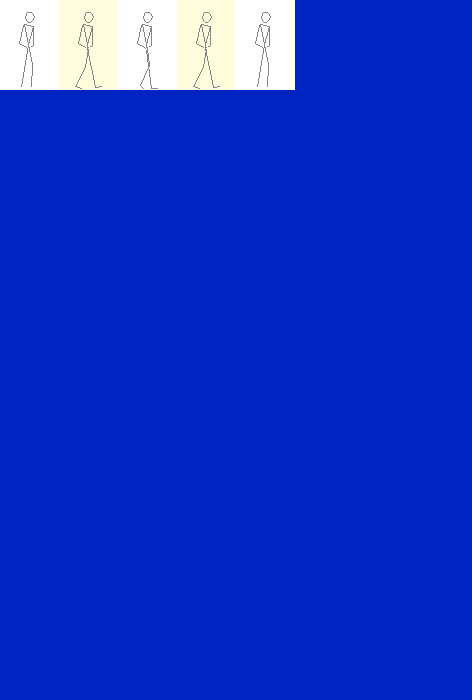
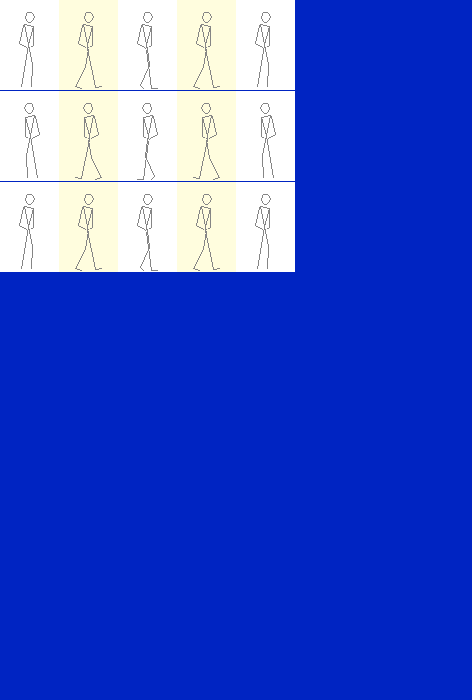
new walk animations and fix directions

Changed region(s): [[0.0, 0.12, 0.6229, 0.39]]

diff --git a/src/fighter/Fighter.js b/src/fighter/Fighter.js
@@ -1,5 +1,5 @@
 import { backwardPress, forwardPress, upPress, } from "../Control.js";
-import { FighterState } from "../constants/fighter.js"
+import { FighterDirection, FighterState } from "../constants/fighter.js"
 import { GRAVITY, STAGE } from "../constants/game.js"
 
 export class Character {
@@ -9,14 +9,14 @@ export class Character {
         this.x = x
         this.y = y
         this.velocity = {x: 0, y: 0}
-        this.direction = 1
+        this.direction = FighterDirection.RIGHT
 
         this.sprites = new Image()
         this.spriteFrames = {}
         this.animations = {}
         this.animationFrameIndex = 0
         this.framesElapsed = 0
-        this.framesHold = 5
+        this.framesHold = 10
 
         this.states = {
             [FighterState.IDLE]: {
@@ -27,36 +27,36 @@ export class Character {
                     if (upPress(this.playerNumber) || this.y < STAGE.FLOOR_Y) {
                         this.changeState(FighterState.JUMP)
                     }
-                    if (backwardPress(this.playerNumber, this.direction)) {
+                    else if (backwardPress(this.playerNumber, this.direction)) {
                         this.changeState(FighterState.WALK_BACKWARD)
                     }
-                    if (forwardPress(this.playerNumber, this.direction)) {
+                    else if (forwardPress(this.playerNumber, this.direction)) {
                         this.changeState(FighterState.WALK_FORWARD)
                     }
                 }
             },
             [FighterState.WALK_FORWARD]: {
                 enterState: () => {
-                    this.velocity.x = 2
+                    this.velocity.x = this.correctVelocityDirection(2)
                 },
                 updateState: () => {
                     if (upPress(this.playerNumber) || this.y < STAGE.FLOOR_Y) {
                         this.changeState(FighterState.JUMP)
                     }
-                    if (!forwardPress(this.playerNumber, this.direction)) {
+                    else if (!forwardPress(this.playerNumber, this.direction)) {
                         this.changeState(FighterState.IDLE)
                     }
                 }
             },
             [FighterState.WALK_BACKWARD]: {
                 enterState: () => {
-                    this.velocity.x = -2
+                    this.velocity.x = this.correctVelocityDirection(-2)
                 },
                 updateState: () => {
                     if (upPress(this.playerNumber) || this.y < STAGE.FLOOR_Y) {
                         this.changeState(FighterState.JUMP)
                     }
-                    if (!backwardPress(this.playerNumber, this.direction)) {
+                    else if (!backwardPress(this.playerNumber, this.direction)) {
                         this.changeState(FighterState.IDLE)
                     }
                 }
@@ -64,7 +64,7 @@ export class Character {
             [FighterState.JUMP]: {
                 enterState: () => {
                     this.y -= 1
-                    this.velocity.y = -12
+                    this.velocity.y = -13
                 },
                 updateState: () => {
                     if (this.y >= STAGE.FLOOR_Y) {
@@ -84,26 +84,36 @@ export class Character {
         this.states[this.currentState].enterState()
     }
 
-    update(otherPlayer) {
-        console.log(this.name, this.direction)
-        this.states[this.currentState].updateState()
+    correctVelocityDirection(velocity){
+        if (this.direction == FighterDirection.RIGHT) {
+            return velocity
+        } else {
+            return -velocity
+        }
+    }
 
-        if (this.currentState != FighterState.JUMP) {
+    updateDirection(otherPlayer) {
+        if (this.currentState != FighterState.JUMP && otherPlayer.currentState != FighterState.JUMP) {
             if (this.x < otherPlayer.x) {
-                this.direction = 1
+                this.direction = FighterDirection.RIGHT
             } else {
-                this.direction = -1
+                this.direction = FighterDirection.LEFT
             }
         }
+    }
 
-        this.x += this.velocity.x * this.direction
+    update(otherPlayer) {
+        this.updateDirection(otherPlayer)
+        this.states[this.currentState].updateState()
+
+        this.x += this.velocity.x
         this.y = Math.min(this.y + this.velocity.y, STAGE.FLOOR_Y)
         
         this.framesElapsed++
         if (this.framesElapsed % this.framesHold == 0) {
             this.framesElapsed == 0
             this.animationFrameIndex++
-            if (this.animationFrameIndex >= this.animations[this.currentState].length) {
+            if (this.animationFrameIndex >= this.animations[this.direction][this.currentState].length) {
                 this.animationFrameIndex = 0
             }
         }
@@ -121,7 +131,11 @@ export class Character {
     }
 
     draw(context) {
-        const currentAnimation = this.animations[this.currentState]
+        const currentAnimation = this.animations[this.direction][this.currentState]
+        console.log(this.currentState)
+        console.log(currentAnimation)
+        console.log(this.animationFrameIndex)
+        console.log(currentAnimation[this.animationFrameIndex])
         const [
             [x, y, width, height],
             [anchorX, anchorY]

diff --git a/src/fighter/Sanji.js b/src/fighter/Sanji.js
@@ -1,4 +1,4 @@
-import { FighterState } from "../constants/fighter.js";
+import { FighterDirection, FighterState } from "../constants/fighter.js";
 import { Character } from "./Fighter.js";
 
 export class Sanji extends Character {
@@ -6,17 +6,30 @@ export class Sanji extends Character {
         super("Sanji", playerNumber, x, y)
         this.sprites = document.querySelector("img[alt='sanji']")
         this.spriteFrames = {
-            'walk_1': [[0, 0, 59, 90], [30, 90]],
-            'walk_2': [[59, 0, 59, 90], [30, 90]],
-            'walk_3': [[118, 0, 59, 90], [30, 90]],
-            'walk_4': [[177, 0, 59, 90], [30, 90]],
-            'walk_5': [[236, 0, 59, 90], [30, 90]]
+            'right_fwalk_1': [[0, 0, 59, 90], [30, 90]],
+            'right_fwalk_2': [[59, 0, 59, 90], [30, 90]],
+            'right_fwalk_3': [[118, 0, 59, 90], [30, 90]],
+            'right_fwalk_4': [[177, 0, 59, 90], [30, 90]],
+            'right_fwalk_5': [[236, 0, 59, 90], [30, 90]],
+            'left_fwalk_1': [[0, 91, 59, 90], [30, 90]],
+            'left_fwalk_2': [[59, 91, 59, 90], [30, 90]],
+            'left_fwalk_3': [[118, 91, 59, 90], [30, 90]],
+            'left_fwalk_4': [[177, 91, 59, 90], [30, 90]],
+            'left_fwalk_5': [[236, 91, 59, 90], [30, 90]],
         }
         this.animations = {
-            [FighterState.IDLE]: ['walk_1'],
-            [FighterState.WALK_FORWARD]: ['walk_1', 'walk_2', 'walk_3', 'walk_4', 'walk_5'],
-            [FighterState.WALK_BACKWARD]: ['walk_5', 'walk_4', 'walk_3', 'walk_2', 'walk_1'],
-            [FighterState.JUMP]: ['walk_1'],
+            [FighterDirection.RIGHT]: {
+                [FighterState.IDLE]: ['right_fwalk_1'],
+                [FighterState.WALK_FORWARD]: ['right_fwalk_1', 'right_fwalk_2', 'right_fwalk_3', 'right_fwalk_4', 'right_fwalk_5'],
+                [FighterState.WALK_BACKWARD]: ['right_fwalk_5', 'right_fwalk_4', 'right_fwalk_3', 'right_fwalk_2', 'right_fwalk_1'],
+                [FighterState.JUMP]: ['right_fwalk_1'],
+            },
+            [FighterDirection.LEFT]: {
+                [FighterState.IDLE]: ['left_fwalk_1'],
+                [FighterState.WALK_FORWARD]: ['left_fwalk_1', 'left_fwalk_2', 'left_fwalk_3', 'left_fwalk_4', 'right_fwalk_5'],
+                [FighterState.WALK_BACKWARD]: ['right_fwalk_5', 'left_fwalk_4', 'left_fwalk_3', 'left_fwalk_2', 'left_fwalk_1'],
+                [FighterState.JUMP]: ['left_fwalk_1'],
+            }
         }
     }
 }

diff --git a/src/fighter/Zoro.js b/src/fighter/Zoro.js
@@ -1,4 +1,4 @@
-import { FighterState } from "../constants/fighter.js";
+import { FighterDirection, FighterState } from "../constants/fighter.js";
 import { Character } from "./Fighter.js";
 
 export class Zoro extends Character {
@@ -6,17 +6,30 @@ export class Zoro extends Character {
         super("Zoro", playerNumber, x, y)
         this.sprites = document.querySelector("img[alt='zoro']")
         this.spriteFrames = {
-            'walk_1': [[0, 0, 59, 90], [30, 90]],
-            'walk_2': [[59, 0, 59, 90], [30, 90]],
-            'walk_3': [[118, 0, 59, 90], [30, 90]],
-            'walk_4': [[177, 0, 59, 90], [30, 90]],
-            'walk_5': [[236, 0, 59, 90], [30, 90]]
+            'right_fwalk_1': [[0, 0, 59, 90], [30, 90]],
+            'right_fwalk_2': [[59, 0, 59, 90], [30, 90]],
+            'right_fwalk_3': [[118, 0, 59, 90], [30, 90]],
+            'right_fwalk_4': [[177, 0, 59, 90], [30, 90]],
+            'right_fwalk_5': [[236, 0, 59, 90], [30, 90]],
+            'left_fwalk_1': [[0, 91, 59, 90], [30, 90]],
+            'left_fwalk_2': [[59, 91, 59, 90], [30, 90]],
+            'left_fwalk_3': [[118, 91, 59, 90], [30, 90]],
+            'left_fwalk_4': [[177, 91, 59, 90], [30, 90]],
+            'left_fwalk_5': [[236, 91, 59, 90], [30, 90]],
         }
         this.animations = {
-            [FighterState.IDLE]: ['walk_1'],
-            [FighterState.WALK_FORWARD]: ['walk_1', 'walk_2', 'walk_3', 'walk_4', 'walk_5'],
-            [FighterState.WALK_BACKWARD]: ['walk_5', 'walk_4', 'walk_3', 'walk_2', 'walk_1'],
-            [FighterState.JUMP]: ['walk_1'],
+            [FighterDirection.RIGHT]: {
+                [FighterState.IDLE]: ['right_fwalk_1'],
+                [FighterState.WALK_FORWARD]: ['right_fwalk_1', 'right_fwalk_2', 'right_fwalk_3', 'right_fwalk_4', 'right_fwalk_5'],
+                [FighterState.WALK_BACKWARD]: ['right_fwalk_5', 'right_fwalk_4', 'right_fwalk_3', 'right_fwalk_2', 'right_fwalk_1'],
+                [FighterState.JUMP]: ['right_fwalk_1'],
+            },
+            [FighterDirection.LEFT]: {
+                [FighterState.IDLE]: ['left_fwalk_1'],
+                [FighterState.WALK_FORWARD]: ['left_fwalk_1', 'left_fwalk_2', 'left_fwalk_3', 'left_fwalk_4', 'left_fwalk_5'],
+                [FighterState.WALK_BACKWARD]: ['left_fwalk_5', 'left_fwalk_4', 'left_fwalk_3', 'left_fwalk_2', 'left_fwalk_1'],
+                [FighterState.JUMP]: ['left_fwalk_1'],
+            }
         }
  
     }

diff --git a/src/Control.js b/src/Control.js
@@ -1,8 +1,9 @@
 import { isKeyDown } from "./InputHandler.js";
+import { FighterDirection } from "./constants/fighter.js";
 
 export function forwardPress(playerNum, direction) {
     if (playerNum == 1) {
-        if (direction == 1) {
+        if (direction == FighterDirection.RIGHT) {
             return isKeyDown('KeyD')
         } else {
             return isKeyDown('KeyA')
@@ -10,7 +11,7 @@ export function forwardPress(playerNum, direction) {
         
     }
     else {
-        if (direction == 1) {
+        if (direction == FighterDirection.RIGHT) {
             return isKeyDown('ArrowRight')
         } else {
             return isKeyDown('ArrowLeft')
@@ -20,14 +21,14 @@ export function forwardPress(playerNum, direction) {
 
 export function backwardPress(playerNum, direction) {
     if (playerNum == 1) {
-        if (direction == 1) {
+        if (direction == FighterDirection.RIGHT) {
             return isKeyDown('KeyA')
         } else {
             return isKeyDown('KeyD')
         }
     }
     else {
-        if (direction == 1) {
+        if (direction == FighterDirection.RIGHT) {
             return isKeyDown('ArrowLeft')
         } else {
             return isKeyDown('ArrowRight')

diff --git a/src/constants/fighter.js b/src/constants/fighter.js
@@ -4,3 +4,8 @@ export const FighterState = {
     WALK_BACKWARD: 'walk_backward',
     JUMP: 'jump',
 }
+
+export const FighterDirection = {
+    RIGHT: 'right',
+    LEFT: 'left',
+}
